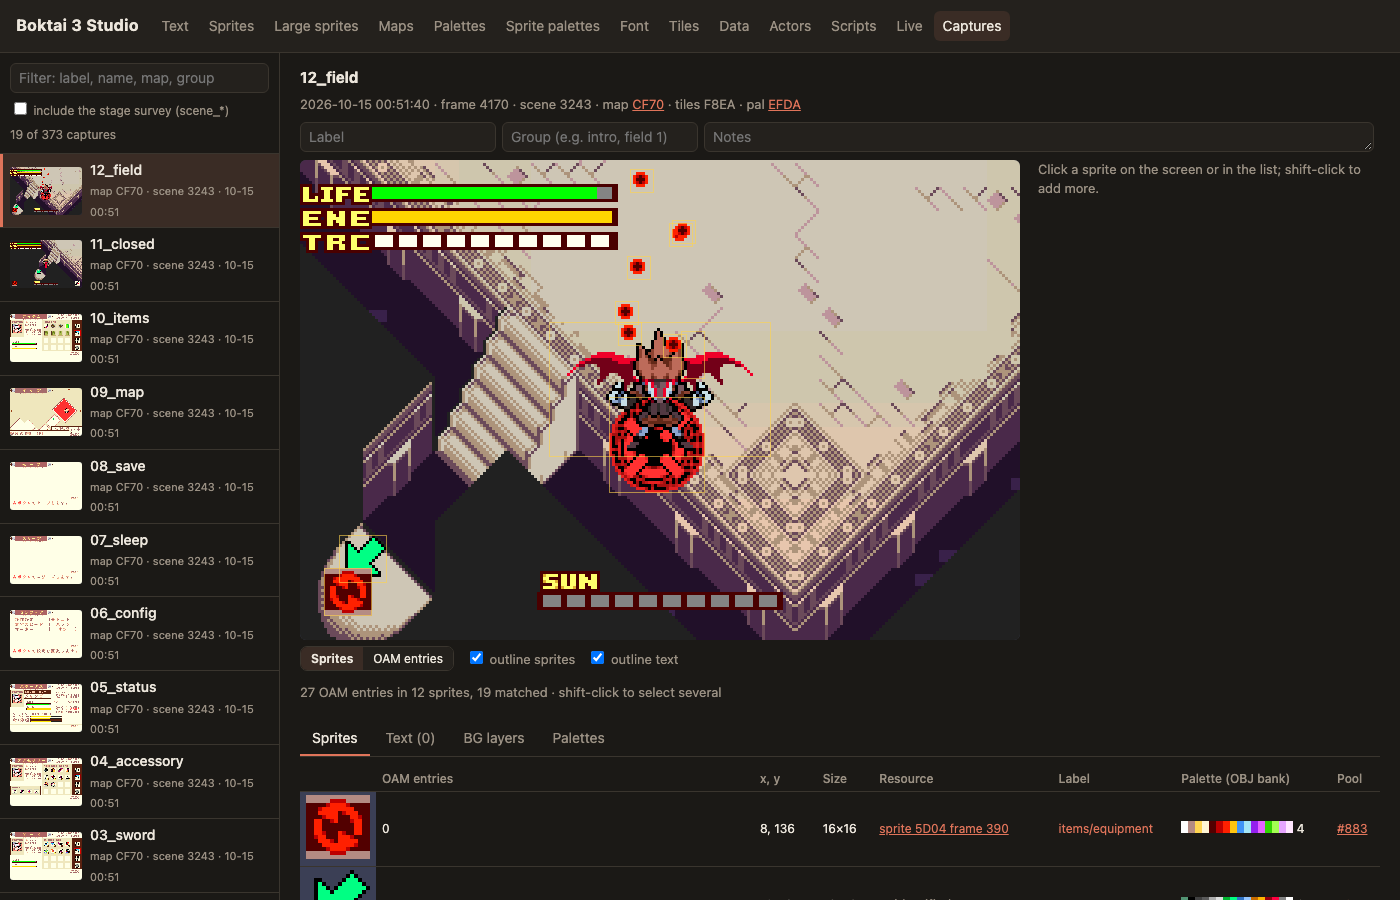
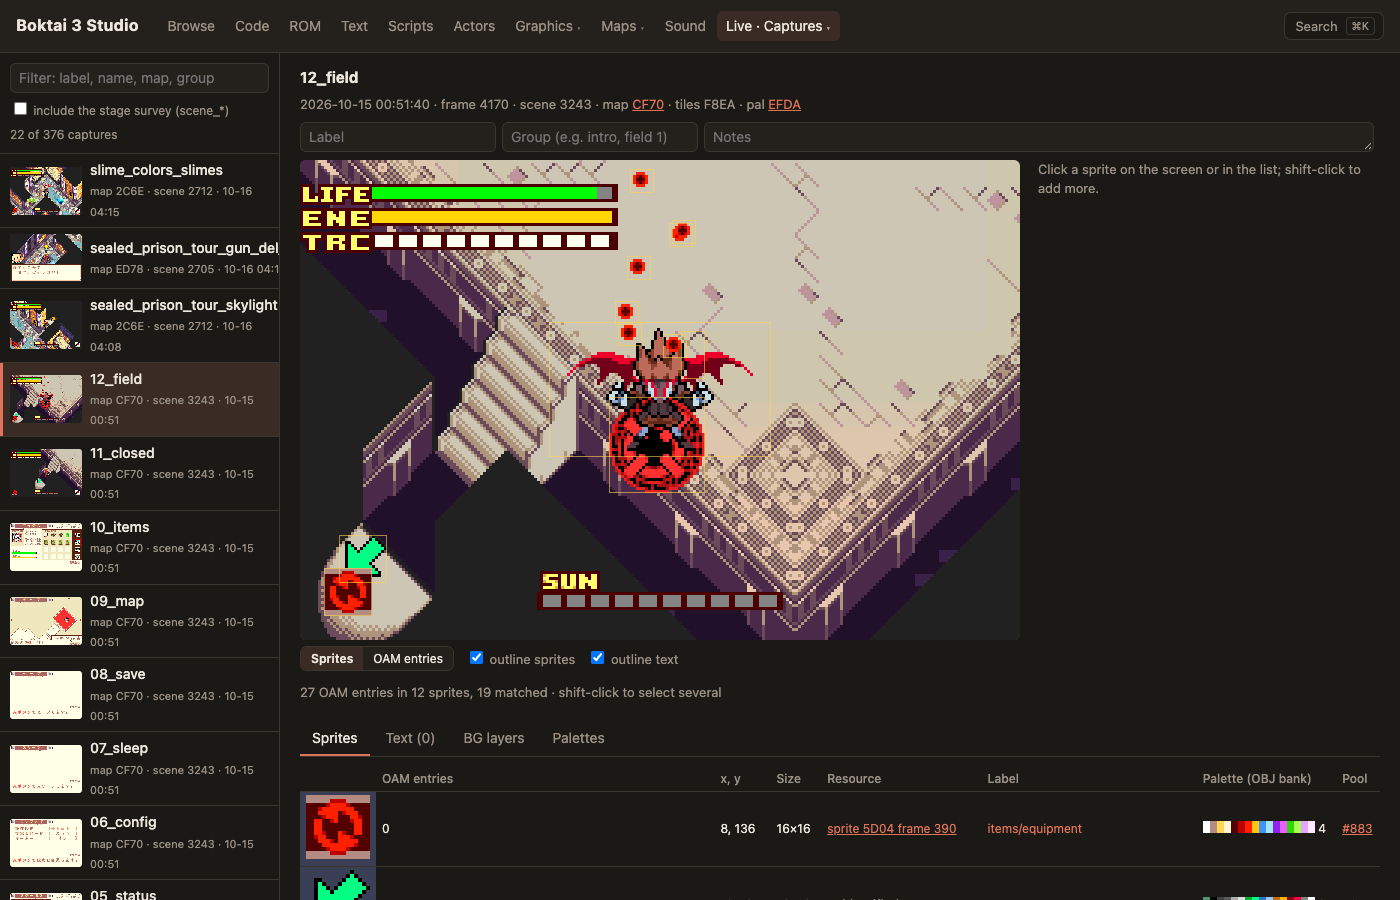
Studio: README section and screenshots for the new shell
tools/studio/shots.py retakes the README's screenshots from a running
Studio (headless Chrome, dark mode, through the showcase's DevTools
client), so they can follow the UI. New ones show the code explorer's
function page and overview and a Browse page; the rest are retaken with
the new header. The nav's group classes get their own names (captures and
sound use .grp), Browse finds boktai3trans from a worktree for its English
names, and the explorer numbers C lines as the file does.

diff --git a/tools/studio/common.css b/tools/studio/common.css
@@ -26,15 +26,15 @@ a { color: var(--accent); }
 #top .brand { font-size: 16px; font-weight: 700; margin: 0 6px 0 0; letter-spacing: .02em; white-space: nowrap; color: var(--ink); text-decoration: none; }
 #top h1 { font-size: 16px; margin: 0; letter-spacing: .02em; white-space: nowrap; }
 #top nav { display: flex; gap: 2px; flex-wrap: wrap; align-items: center; }
-#top nav a, #top nav .grp > button { color: var(--muted); text-decoration: none; padding: 5px 9px; border-radius: 6px; white-space: nowrap; font: inherit; background: none; border: 0; cursor: pointer; }
-#top nav a:hover, #top nav .grp > button:hover { color: var(--ink); background: var(--soft); }
-#top nav > a.on, #top nav .grp.on > button { background: var(--sel); color: var(--ink); }
+#top nav a, #top nav .navgrp > button { color: var(--muted); text-decoration: none; padding: 5px 9px; border-radius: 6px; white-space: nowrap; font: inherit; background: none; border: 0; cursor: pointer; }
+#top nav a:hover, #top nav .navgrp > button:hover { color: var(--ink); background: var(--soft); }
+#top nav > a.on, #top nav .navgrp.on > button { background: var(--sel); color: var(--ink); }
 #top nav .caret { font-size: 9px; opacity: .7; }
-#top nav .grp { position: relative; }
-#top nav .menu { display: none; position: absolute; top: calc(100% + 4px); left: 0; min-width: 170px; background: var(--panel); border: 1px solid var(--line); border-radius: 8px; box-shadow: 0 10px 30px rgba(0,0,0,.18); padding: 4px; z-index: 45; }
-#top nav .grp.open .menu { display: flex; flex-direction: column; }
-#top nav .menu a { padding: 6px 10px; }
-#top nav .menu a.on { color: var(--ink); background: var(--sel); }
+#top nav .navgrp { position: relative; }
+#top nav .navmenu { display: none; position: absolute; top: calc(100% + 4px); left: 0; min-width: 170px; background: var(--panel); border: 1px solid var(--line); border-radius: 8px; box-shadow: 0 10px 30px rgba(0,0,0,.18); padding: 4px; z-index: 45; }
+#top nav .navgrp.open .navmenu { display: flex; flex-direction: column; }
+#top nav .navmenu a { padding: 6px 10px; }
+#top nav .navmenu a.on { color: var(--ink); background: var(--sel); }
 #top .sp { flex: 1; }
 #top #gsearch { font: inherit; font-size: 13px; color: var(--muted); background: var(--bg); border: 1px solid var(--line); border-radius: 7px; padding: 4px 8px 4px 10px; cursor: pointer; display: inline-flex; gap: 8px; align-items: center; }
 #top #gsearch:hover { color: var(--ink); border-color: var(--muted); }

diff --git a/tools/studio/common.js b/tools/studio/common.js
@@ -33,8 +33,8 @@ function navHTML() {
   return NAV.map(([n, u, tip]) => {
     if (typeof u === 'string') return `<a href="${u}" class="${on(u) ? 'on' : ''}"${tip ? ` title="${tip}"` : ''}>${n}</a>`;
     const cur = u.find(([, x]) => on(x));
-    return `<span class="grp${cur ? ' on' : ''}"><button type="button" aria-haspopup="true">${cur && cur[0] !== n ? `${n} · ${cur[0]}` : n} <span class="caret">▾</span></button>
-      <span class="menu">${u.map(([m, x]) => `<a href="${x}" class="${on(x) ? 'on' : ''}">${m}</a>`).join('')}</span></span>`;
+    return `<span class="navgrp${cur ? ' on' : ''}"><button type="button" aria-haspopup="true">${cur && cur[0] !== n ? `${n} · ${cur[0]}` : n} <span class="caret">▾</span></button>
+      <span class="navmenu">${u.map(([m, x]) => `<a href="${x}" class="${on(x) ? 'on' : ''}">${m}</a>`).join('')}</span></span>`;
   }).join('');
 }
 // Fills <header id="top">; `tools` is HTML for the right-hand side.
@@ -45,13 +45,13 @@ function studioHeader(tools = '') {
   h.innerHTML = `<a class="brand" href="/atlas" title="Browse: the way in">Boktai 3 Studio</a><nav>${navHTML()}</nav><span class="sp"></span>${tools}
     <button type="button" id="gsearch" title="Search everything (⌘K or /)">Search <span class="kbd">⌘K</span></button>`;
   h.querySelector('nav').addEventListener('click', e => {
-    const b = e.target.closest('.grp > button');
+    const b = e.target.closest('.navgrp > button');
     if (b) { const g = b.parentElement, was = g.classList.contains('open'); closeMenus(); g.classList.toggle('open', !was); e.stopPropagation(); }
   });
   $('gsearch').onclick = () => searchOpen();
 }
-function closeMenus() { document.querySelectorAll('#top .grp.open').forEach(g => g.classList.remove('open')); }
-document.addEventListener('click', e => { if (!e.target.closest('#top .grp')) closeMenus(); });
+function closeMenus() { document.querySelectorAll('#top .navgrp.open').forEach(g => g.classList.remove('open')); }
+document.addEventListener('click', e => { if (!e.target.closest('#top .navgrp')) closeMenus(); });
 // pages that switch views by hash (gfx.html) call this after each switch
 function markNav() { const n = document.querySelector('#top nav'); if (n) n.innerHTML = navHTML(); }
 window.addEventListener('hashchange', () => { if (location.pathname === '/gfx') markNav(); });

diff --git a/tools/studio/code.html b/tools/studio/code.html
@@ -379,7 +379,7 @@ async function functionPage(q) {
   const chips = (list, empty) => list.length ? `<div class="refs">${list.map(r => `<a class="chip mono${FN[r.addr]?.kinds.length ? ' warn' : ''}" href="${fnHref(r.addr)}">${esc(r.name)}</a>`).join('')}</div>` : `<div class="empty">${empty}</div>`;
   const marks = d.c ? Object.fromEntries(Object.entries(d.c.marks).map(([k, v]) => [+k, v])) : {};
   const cPane = d.c ? pane('C', `<span class="mono">${esc(d.c.file)}:${d.c.line ?? ''}</span>${Object.keys(marks).length ? '<span class="sp"></span><span><span class="legend"><span class="sw"></span>concession</span></span>' : ''}`,
-    linesOf(cTokens(d.c.text, d.name)), 1, marks) : `<div class="pane"><div class="ph"><b>C</b></div><div class="src empty" style="padding:12px">The C for this function wasn't found in its unit${f?.file ? ' (' + esc(f.file) + ')' : ''}.</div></div>`;
+    linesOf(cTokens(d.c.text, d.name)), d.c.line || 1, marks) : `<div class="pane"><div class="ph"><b>C</b></div><div class="src empty" style="padding:12px">The C for this function wasn't found in its unit${f?.file ? ' (' + esc(f.file) + ')' : ''}.</div></div>`;
   const asmPane = d.asm ? pane('Disassembly', `<span>${esc(d.mode)} · ${d.size} bytes · gen/code.s</span>`, linesOf(asmTokens(d.asm)))
     : '<div class="pane"><div class="ph"><b>Disassembly</b></div><div class="src empty" style="padding:12px">Not available: run <code>make disasm</code> to generate gen/code.s.</div></div>';
   const game = d.game.length ? `<h3>In the game <span class="n">objects and script routines whose code includes it</span></h3><div class="refs">${d.game.map(g =>

diff --git a/tools/studio/shots.py b/tools/studio/shots.py
@@ -1,0 +1,85 @@
+#!/usr/bin/env python3
+"""Retake the README's Studio screenshots (docs/img/studio-*.png) from a running Studio.
+
+  python3 tools/studio/shots.py [--url http://localhost:8642] [--only code,text] [--out docs/img]
+
+Drives headless Google Chrome over the DevTools protocol (the client in
+tools/showcase/studio_tour.py) in dark mode at 1400 px wide, waits for each
+page's content, and saves a PNG per entry in SHOTS. Start the Studio first
+(tools/studio/serve.py) and let its preload finish.
+"""
+import argparse
+import base64
+import json
+import os
+import shutil
+import subprocess
+import sys
+import tempfile
+import time
+import urllib.request
+
+HERE = os.path.dirname(os.path.abspath(__file__))
+ROOT = os.path.dirname(os.path.dirname(HERE))
+sys.path.insert(0, os.path.join(ROOT, "tools", "showcase"))
+from studio_tour import CHROME, WS  # noqa: E402
+
+W = 1400
+# (name, path, height): the pages the README shows
+SHOTS = [
+    ("browse", "/atlas#monster:9858", 900),
+    ("code", "/code#0804A15C", 1000),
+    ("code-overview", "/code", 900),
+    ("text", "/#7542", 900),
+    ("sprites", "/gfx#sprites/DE23", 900),
+    ("map", "/gfx#maps/EBA7", 1000),
+    ("scripts", "/scripts#5757", 1250),
+    ("actors", "/actors#C3BC", 900),
+    ("captures", "/captures#12_field", 900),
+]
+READY = ("(() => { const t = document.body.innerText;"
+         " return !/Loading/.test(t) && t.length > 300 && !document.querySelector('#view .empty:only-child'); })()")
+
+
+def main():
+    ap = argparse.ArgumentParser(description=__doc__.split("\n")[0])
+    ap.add_argument("--url", default="http://localhost:8642")
+    ap.add_argument("--only", help="comma-separated names from SHOTS")
+    ap.add_argument("--out", default=os.path.join(ROOT, "docs", "img"))
+    a = ap.parse_args()
+    shots = [s for s in SHOTS if not a.only or s[0] in a.only.split(",")]
+    prof = tempfile.mkdtemp(prefix="shots-")
+    chrome = subprocess.Popen([CHROME, "--headless=new", "--remote-debugging-port=9334", f"--user-data-dir={prof}",
+                               f"--window-size={W},900", "--hide-scrollbars", "--force-dark-mode", "about:blank"],
+                              stdout=subprocess.DEVNULL, stderr=subprocess.DEVNULL)
+    try:
+        for _ in range(50):
+            try:
+                tabs = json.load(urllib.request.urlopen("http://127.0.0.1:9334/json"))
+                break
+            except OSError:
+                time.sleep(0.2)
+        ws = WS(next(t for t in tabs if t["type"] == "page")["webSocketDebuggerUrl"])
+        ws.call("Emulation.setEmulatedMedia", features=[{"name": "prefers-color-scheme", "value": "dark"}])
+        for name, path, height in shots:
+            ws.call("Emulation.setDeviceMetricsOverride", width=W, height=height, deviceScaleFactor=1, mobile=False)
+            ws.call("Page.navigate", url="about:blank")
+            ws.call("Page.navigate", url=a.url + path)
+            for _ in range(400):  # until the page has content (indexes can take a while on first use)
+                r = ws.call("Runtime.evaluate", expression=READY, returnByValue=True)
+                if r.get("result", {}).get("value"):
+                    break
+                time.sleep(0.25)
+            time.sleep(2.0)  # let thumbnails and canvases draw
+            shot = ws.call("Page.captureScreenshot", format="png")
+            out = os.path.join(a.out, f"studio-{name}.png")
+            with open(out, "wb") as f:
+                f.write(base64.b64decode(shot["data"]))
+            print(out)
+    finally:
+        chrome.terminate()
+        shutil.move(prof, os.path.expanduser(f"~/.Trash/{os.path.basename(prof)}"))
+
+
+if __name__ == "__main__":
+    sys.exit(main())

diff --git a/tools/studio/atlas.py b/tools/studio/atlas.py
@@ -133,7 +133,7 @@ def clean(t):
 
 def english_names():
     import serve
-    jp, en = serve.display_strings(os.path.join(os.path.dirname(ROOT), "boktai3trans"))
+    jp, en = serve.display_strings(serve.default_trans())  # ../boktai3trans, also from a worktree
     return jp, {k: nice(v) for k, v in en.items()}
 
 

diff --git a/README.md b/README.md
@@ -97,27 +97,44 @@ and see why it differs, then `make`. The workflow and compiler notes are in
 python3 tools/studio/serve.py    # http://localhost:8642
 ```
 
+One local app over the game and the decomp. The header groups every view;
+**⌘K** (or `/`) on any page searches everything at once: monsters,
+characters, places, items, sprites, songs, scripts, functions, RAM objects
+and lines of text (`tools/studio/search.py`). Links to other views open in a
+side panel with its own history.
+
 **Browse** (`/atlas`) is the way in: everything in the game as one tree
 (the story, beat by beat; characters, the monster list in the game's order,
 objects, places in story order, cutscenes with their timelines, items, scripts, script commands, sprites,
-songs and code by subsystem), each
+songs and code by category), each
 with one page of everything known about it: a monster family's species and
 every palette its sprites are drawn in, where it appears, the scripts that
-create it and how much of its code is decompiled. ⌘K searches everything;
-links to the views below open in a side panel with its own history. The index
+create it and its code. The index
 is built by `tools/studio/atlas.py`. Groups come from the game and the code, not
 from hand-made categories: the Cast is the game's character list plus every
 speaker of dialogue in the scripts (with their lines and scenes), the Bestiary
 the game's monster list, Objects and Script routines the registry entries by
-the code subsystem their callback is in. An object's page lists its own
+the code unit their callback is in. An object's page lists its own
 sprites and palettes, the sprite packages, maps, tilesets and animations its
 code looks up (`sub_0821A520(type, hash)`), and the scenes whose own scripts
-place it; a scene opened from there marks it on the map. **ROM** (`/rom`) is
-the ROM as a treemap in address order, colored by kind or by how well each
-byte is understood.
+place it; a scene opened from there marks it on the map.
+
+**Code** (`/code`) shows the finished decomp: every function by category and
+unit (the same tree as [PROGRESS.json](PROGRESS.json) and decomp.dev), each
+with its C next to its disassembly. Lines that still hold a matching
+concession are marked, and identifiers link through: calls, callers, the
+callbacks that take a function's address, the RAM objects (`symbols/ram.csv`)
+and ROM data it loads, and the objects and script routines in the game that
+reach it. A RAM object's page lists every function that uses it. The index is
+`tools/studio/codemap.py`, built from `tools/progress.py` and
+`tools/concessions.py`. **ROM** (`/rom`) is the ROM as a treemap in address
+order, colored by kind or by how well each byte is understood.
 
 | | |
 |---|---|
+| ![Code](docs/img/studio-code.png) | **Code**: a function's C and disassembly side by side, with its concessions, the RAM it touches and where the game reaches it. |
+| ![Code overview](docs/img/studio-code-overview.png) | **Code overview**: what matches, what is free of concessions, by category, and which concession kinds are left. |
+| ![Browse](docs/img/studio-browse.png) | **Browse**: a monster with its family, every palette its sprites are drawn in, and the scenes that place it. |
 | ![Text](docs/img/studio-text.png) | **Text**: every string with the fan translation, previewed in the game font at the game's line width; *Build mod ROM* writes a playable ROM. |
 | ![Sprites](docs/img/studio-sprites.png) | **Sprites**: sprite packages and large sprites with every frame and animation, in their in-game palettes. |
 | ![Maps](docs/img/studio-map.png) | **Maps**: stages with captured palettes, doors, entrances, items, enemies and patrol paths from the stage scripts. |
@@ -128,7 +145,8 @@ byte is understood.
 Also: palette, font and tile viewers, and **Sound** (`/sound`): every song in
 the song table with its tracks, voices and the scripts, scenes and code that
 start it, played in the browser by a small MP2K player (`tools/studio/mp2k.js`)
-from the ROM's own sequence and sample data.
+from the ROM's own sequence and sample data. `python3 tools/studio/shots.py`
+retakes these screenshots from a running Studio.
 
 ## Layout
 
